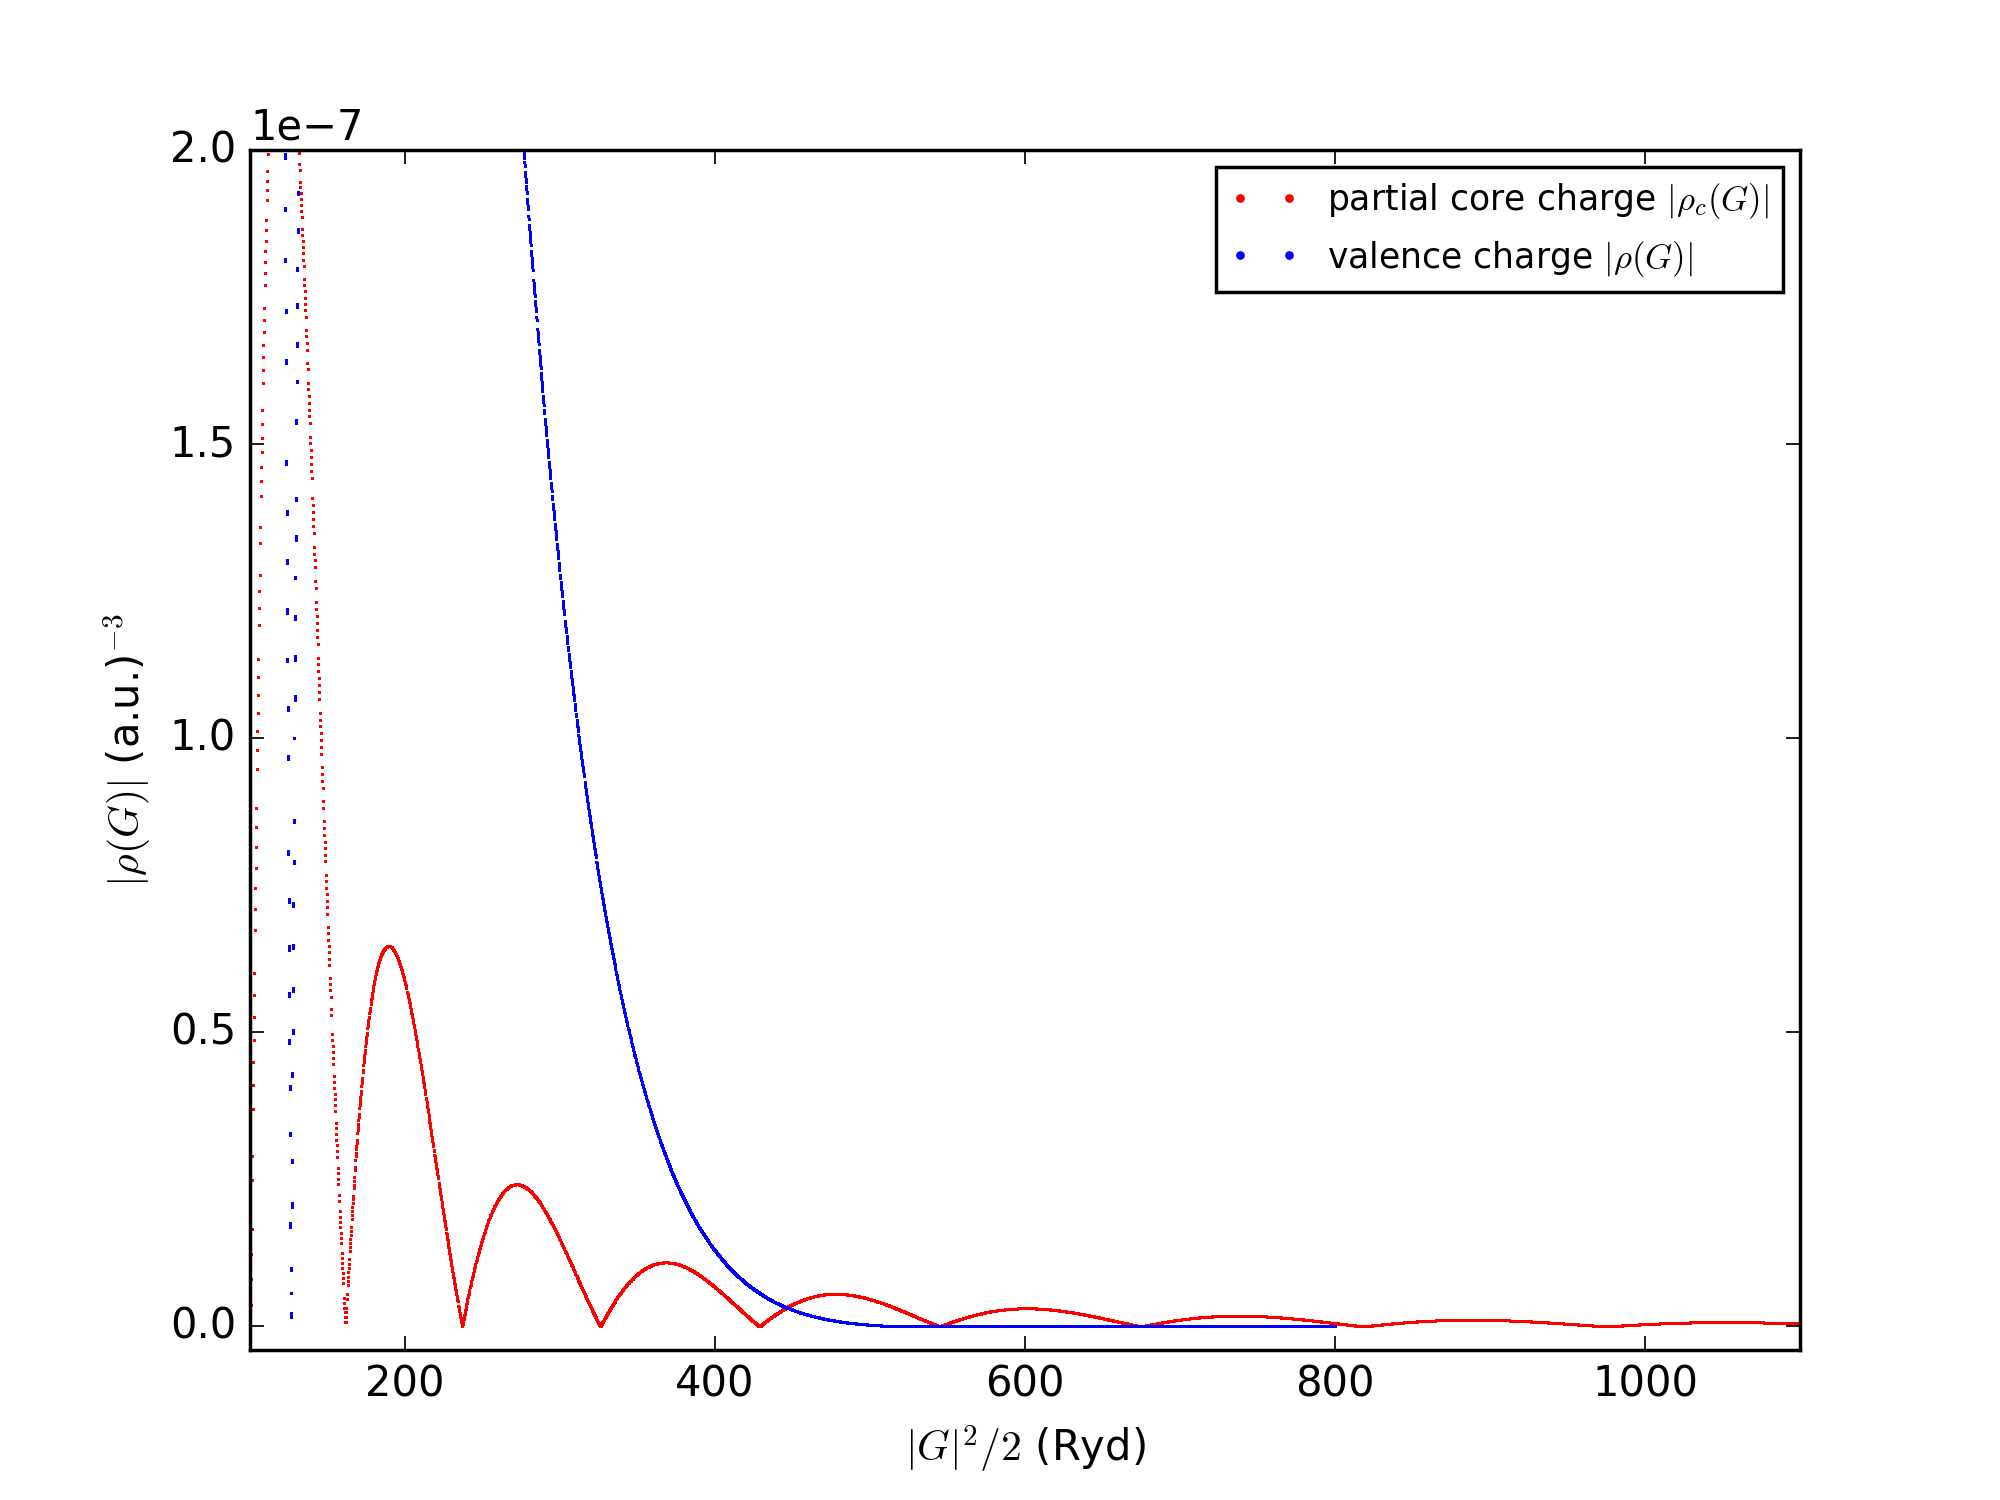
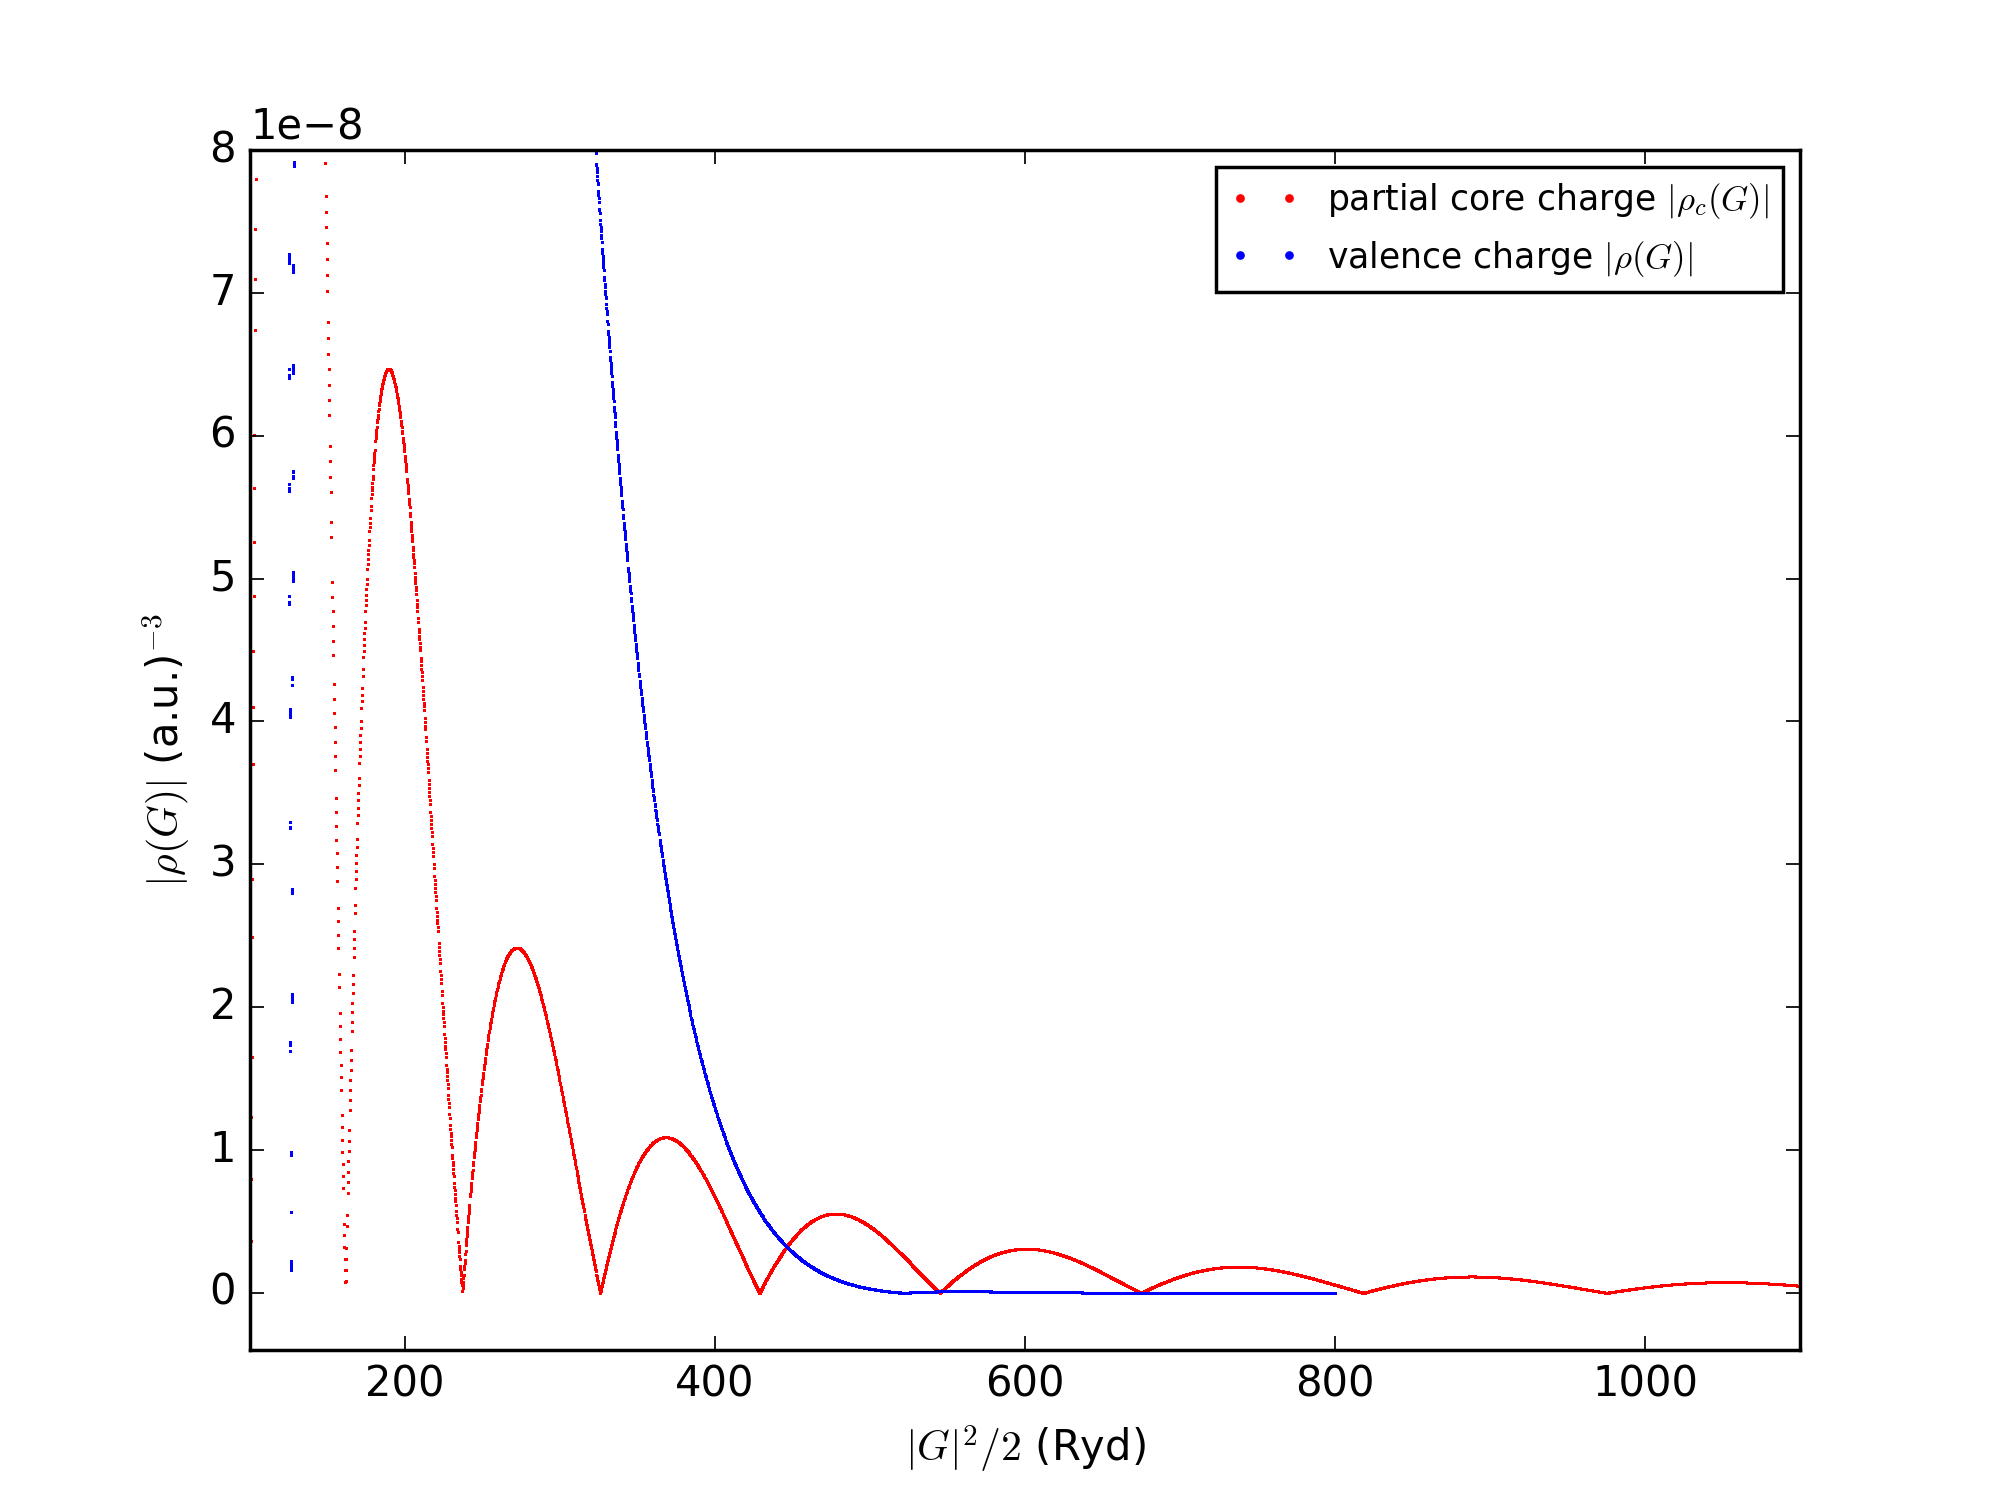
Add Fe-new_core_ps, update Cr picture

diff --git a/fe/extract-fe-nlcc-new_core_ps/compare_rhoc_rhov.py b/fe/extract-fe-nlcc-new_core_ps/compare_rhoc_rhov.py
@@ -42,8 +42,8 @@ plt.legend(loc='upper right', fontsize='small')
 
 #plt.plot(t, s,'b.',markersize=0.5)
 plt.xlim(100, 1100)
-plt.ylim(-0.4e-8,0.00000008)
+plt.ylim(-0.4e-8,0.0000002)
 plt.ticklabel_format(style='sci', axis='y', scilimits=(0,0))
 #plt.show()
 
-plt.savefig("Cr-rhoc-vs-rhov.png",dpi=250)
+plt.savefig("Fe-rhoc-vs-rhov.png",dpi=250)
